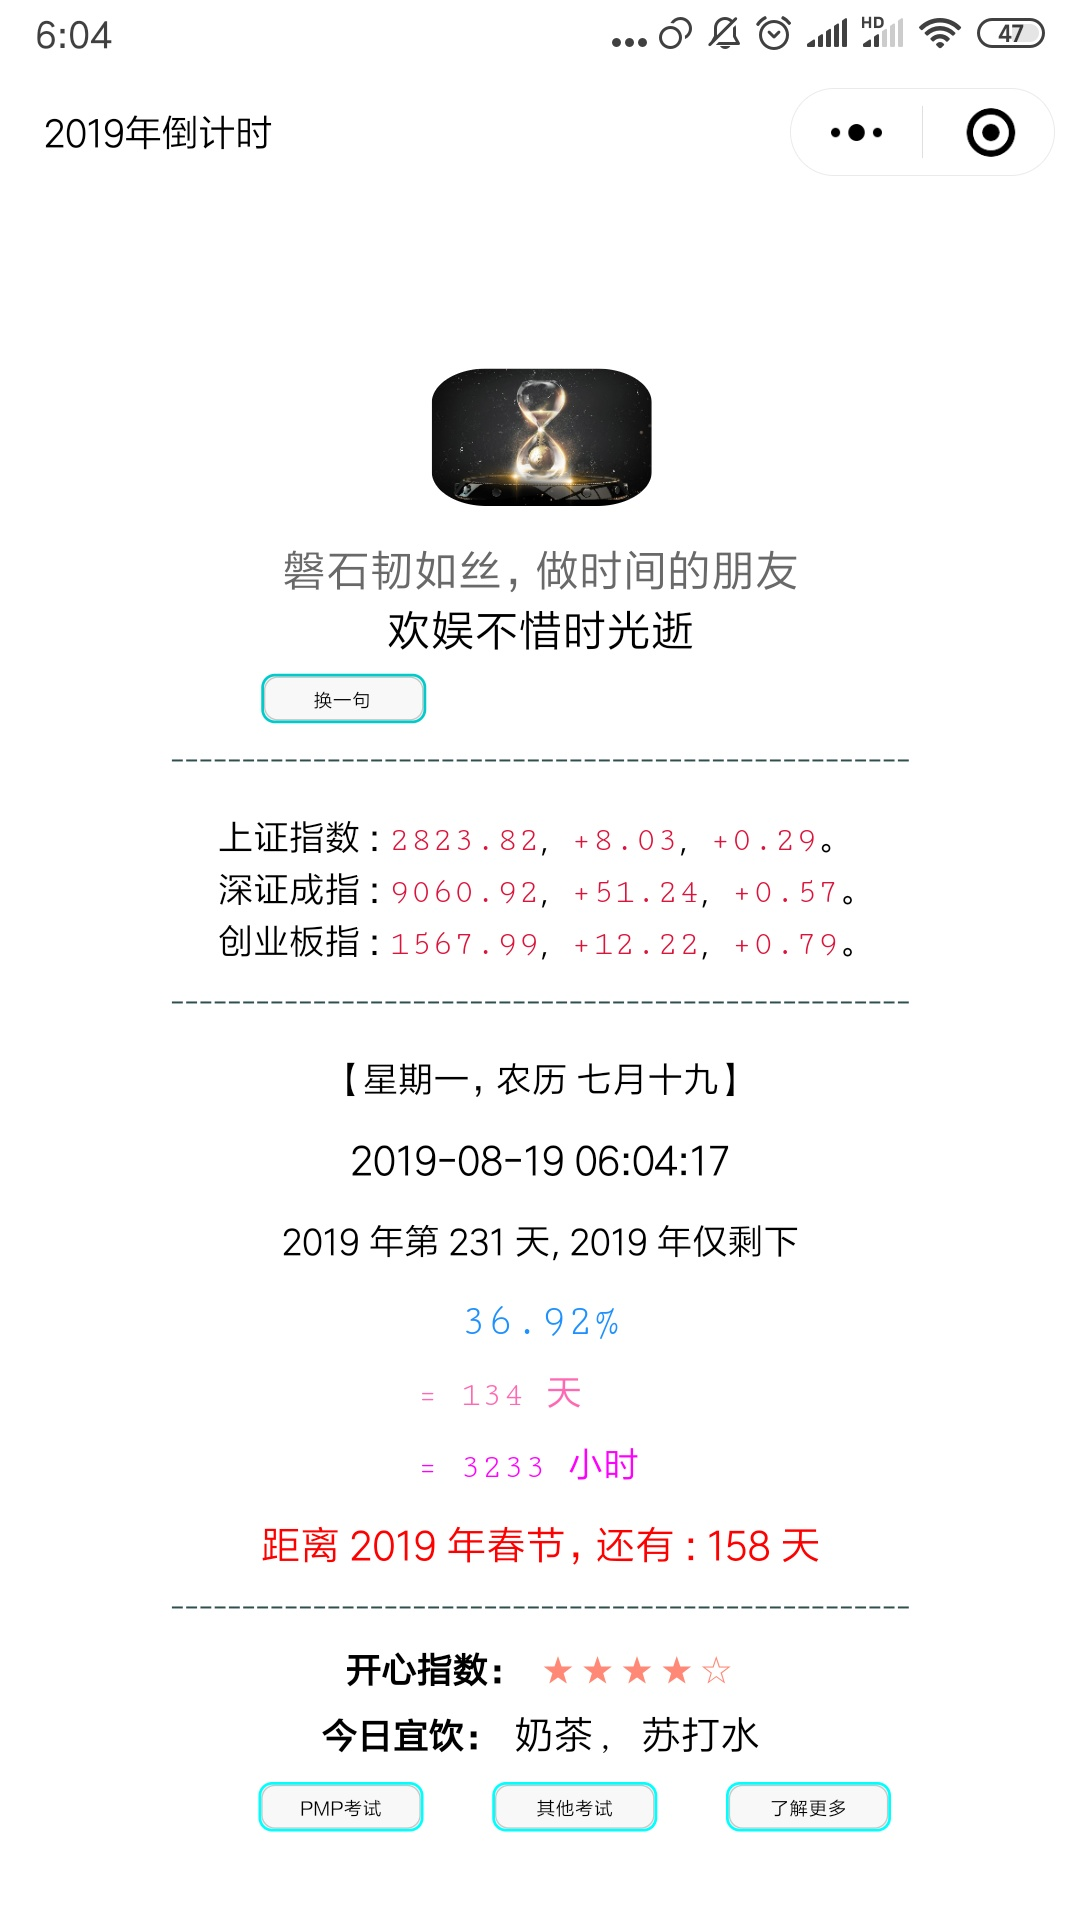
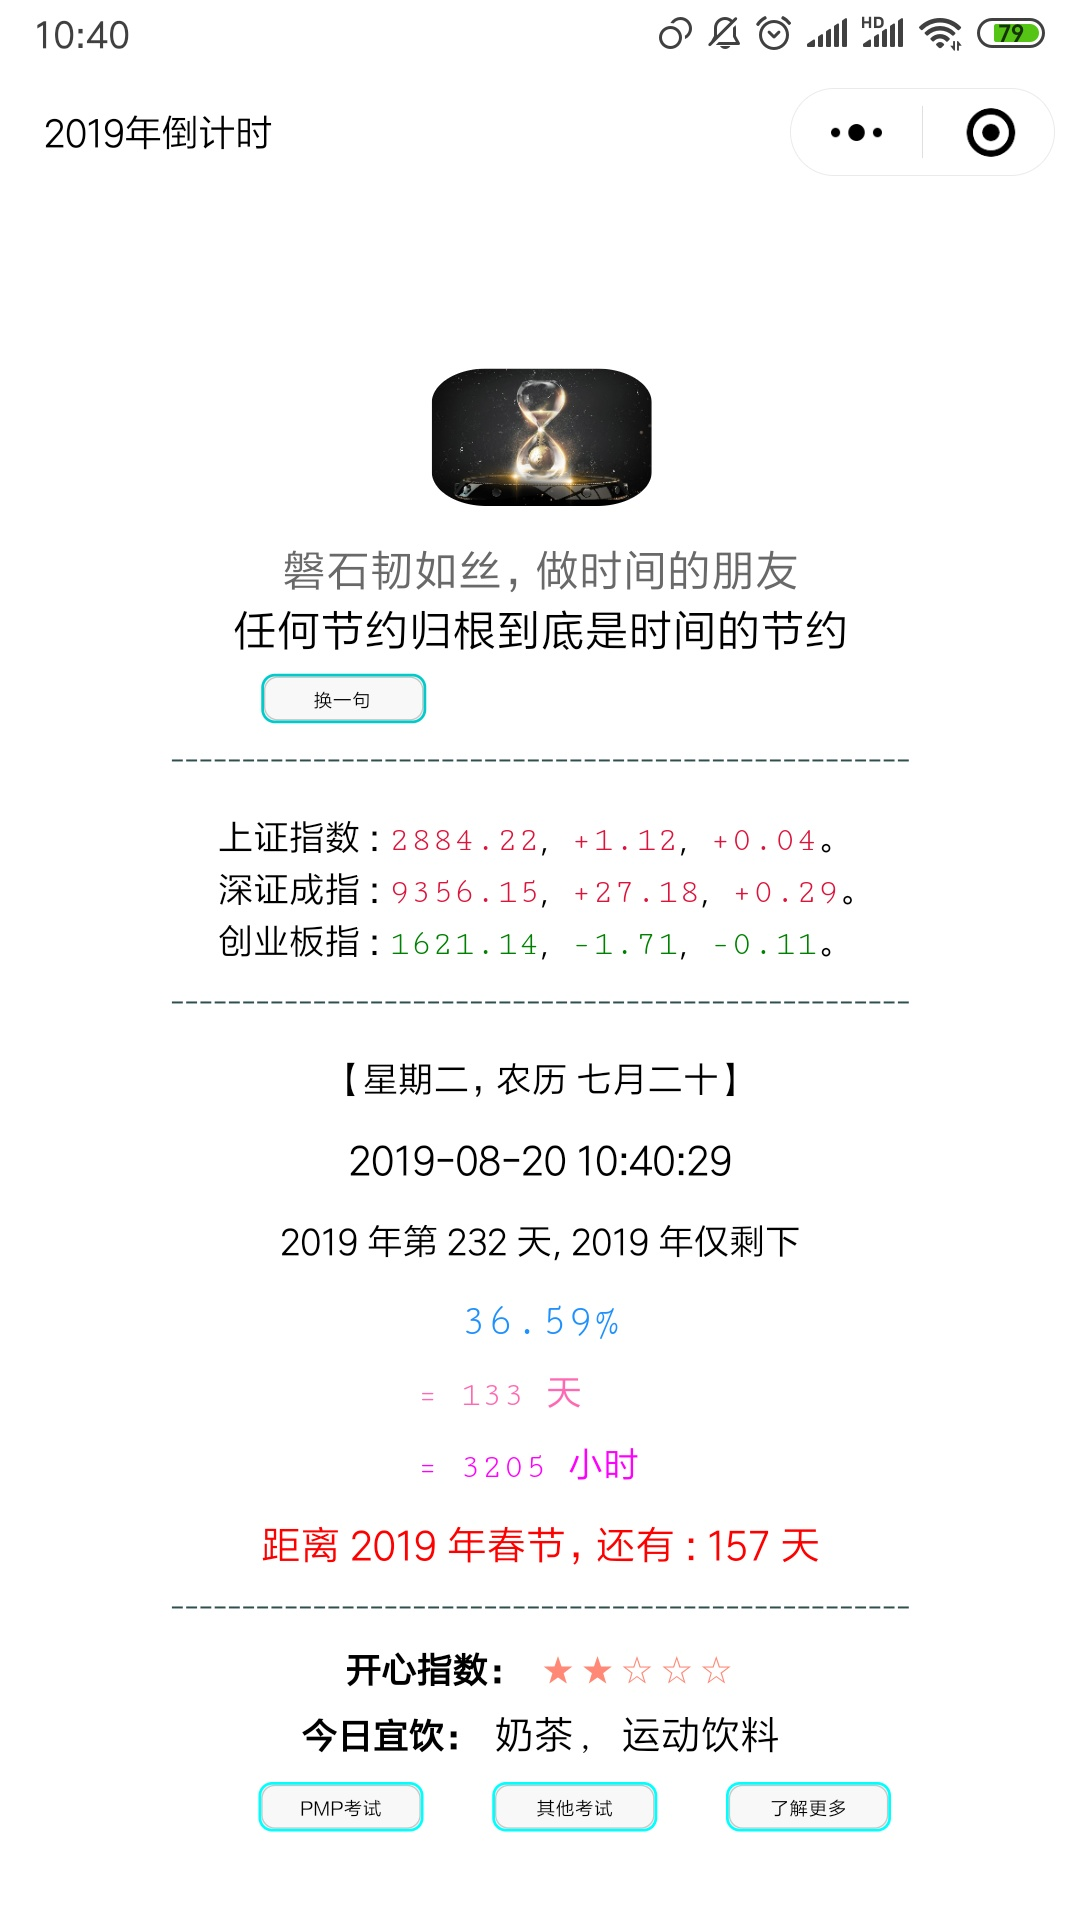
例行更新 20190820

diff --git a/source/_posts/001_2-FD_my_life_records-2019.md b/source/_posts/001_2-FD_my_life_records-2019.md
@@ -1,5 +1,5 @@
 ---
-title: 坚持的力量之数据人生-2019年8月19日
+title: 坚持的力量之数据人生-2019年8月20日
 tags:
   - 数据人生
   - 参考模板
@@ -20,14 +20,14 @@ keywords:
   - 宽978高553
 photos:
   - '/images/001_2/photos.png'
-description: 今天：2019 年 8 月 19 日，2019 年仅剩下 134 天。坚持记录和分析生活中的数据、信息和事件，尊重历史数据、信息和事件，人生将会更美好。
-date: 2019-08-19 00:02:05
+description: 今天：2019 年 8 月 20 日，2019 年仅剩下 133 天。坚持记录和分析生活中的数据、信息和事件，尊重历史数据、信息和事件，人生将会更美好。
+date: 2019-08-20 00:02:05
 ---
 <script type="text/javascript" src="/js/src/bai.js"></script>
 
-### 坚持的力量之数据人生-2019年8月19日
+### 坚持的力量之数据人生-2019年8月20日
 ------
-> 今天：2019 年 8 月 19 日，2019 年仅剩下 134 天。坚持记录和分析生活中的数据、信息和事件，尊重历史数据、信息和事件，人生将会更美好。
+> 今天：2019 年 8 月 20 日，2019 年仅剩下 133 天。坚持记录和分析生活中的数据、信息和事件，尊重历史数据、信息和事件，人生将会更美好。
 >
 > 序言：坚持记录和分析生活中的数据、信息和事件，尊重历史数据、信息和事件，人生将会更美好。
 
@@ -67,11 +67,11 @@ date: 2019-08-19 00:02:05
 
 | 序号 |       名称                                            |  类型  | 开始/结束日期 | 总天数 |          备注                           |
 | :--: | :---------------------------------------------------: | :----: | :-----------: | :----: | :-------------------------------------: |
-|  1   | <font color="#FF0000" size=2>读书荐书第 4/4 更</font> | 倒计时 | 2019/10/01    |  43    | 开始时间：2019/7/1                      |
-|  2   | <font color="#FF0000" size=2>重要节点</font>          | 倒计时 | 2020/03/01    |  198   | 开始时间：2018/6/15 剩余 10 个月        |
-|  3   | <font color="#0000FF" size=2>来上海</font>            | 计时   | 2011/06/25    |  2917  | 第 8 年进行中                           |
-|  4   | <font color="#0000FF" size=2>莫名其妙的计时</font>    | 计时   | 2018/11/12    |  276   | 莫名其妙的计时，希望永远不会停 ！！！   |
-|  5   | <font color="#0000FF" size=2>坚持减肥-3               | 计时   | 2019/08/31    |  20    | 坚持减肥，目标 65 公斤，保持一个月      |
+|  1   | <font color="#FF0000" size=2>读书荐书第 4/4 更</font> | 倒计时 | 2019/10/01    |  42    | 开始时间：2019/7/1                      |
+|  2   | <font color="#FF0000" size=2>重要节点</font>          | 倒计时 | 2020/03/01    |  197   | 开始时间：2018/6/15 剩余 10 个月        |
+|  3   | <font color="#0000FF" size=2>来上海</font>            | 计时   | 2011/06/25    |  2918  | 第 8 年进行中                           |
+|  4   | <font color="#0000FF" size=2>莫名其妙的计时</font>    | 计时   | 2018/11/12    |  277   | 莫名其妙的计时，希望永远不会停 ！！！   |
+|  5   | <font color="#0000FF" size=2>坚持减肥-3               | 计时   | 2019/08/31    |  21    | 坚持减肥，目标 65 公斤，保持一个月      |
 |  6   | <font color="#FF00FF" size=2>博客总计博文</font>      | 计数   | 2018/08/01    |  205   | [博客](/archives) 博文总计数目          |
 |  7   | <font color="#FF00FF" size=2>读书心得札记</font>      | 计数   | 2018/05/26    |  69    | [读书心得笔记并做笔记](/tags/札记人生/) |
 |  8   | <font color="#FF00FF" size=2>五篇好文推荐</font>      | 计数   | 2018/10/24    |  50    | [美文推荐](/tags/美文推荐/)             |
@@ -83,11 +83,11 @@ date: 2019-08-19 00:02:05
 
 | 日期                                   | 记账新增记录 | 记账总记录 | 记账总天数 | 记账时间      | 备注     |
 | :------:                               | :------:     | :------:   | :------:   | :------:      | :------: |
-|<font color="#000000"> 20190815 </font> | 8            | 10639      | 3097       | 8 年零 168 天 | 无       |
 |<font color="#000000"> 20190816 </font> | 4            | 10643      | 3098       | 8 年零 169 天 | 无       |
 |<font color="#000000"> 20190817 </font> | 3            | 10646      | 3099       | 8 年零 170 天 | 无       |
 |<font color="#000000"> 20190818 </font> | 11           | 10657      | 3100       | 8 年零 171 天 | 无       |
-|<font color="#FF0000"> 20190819 </font> | 16           | 10673      | 3101       | 8 年零 172 天 | 无       |
+|<font color="#000000"> 20190819 </font> | 16           | 10673      | 3101       | 8 年零 172 天 | 无       |
+|<font color="#FF0000"> 20190820 </font> | 3            | 10676      | 3102       | 8 年零 173 天 | 无       |
 
 
 #### 3. 历史数据汇总

diff --git a/source/_posts/001_1-FD_2018_year_all_checker-2019.md b/source/_posts/001_1-FD_2018_year_all_checker-2019.md
@@ -1,5 +1,5 @@
 ---
-title: 2019年每日日常综合打卡-2019年8月19日
+title: 2019年每日日常综合打卡-2019年8月20日
 tags:
   - 数据人生
   - 参考模板
@@ -21,14 +21,14 @@ keywords:
   - 宽978高553
 photos:
   - '/images/001_1/photos.png'
-description: 今天：2019 年 8 月 19 日，2019 年仅剩下 134 天。每天坚持打卡，8 月份针对每个任务打卡，慢慢来，一切都会更好的。
-date: 2019-08-19 00:01:01
+description: 今天：2019 年 8 月 20 日，2019 年仅剩下 133 天。每天坚持打卡，8 月份针对每个任务打卡，慢慢来，一切都会更好的。
+date: 2019-08-20 00:01:01
 ---
 <script type="text/javascript" src="/js/src/bai.js"></script>
 
-### 2019年每日日常综合打卡-2019年8月19日
+### 2019年每日日常综合打卡-2019年8月20日
 ---
-> 今天：2019 年 8 月 19 日，2018 年仅剩下 134 天。每日打卡，8 月份针对每个任务打卡，慢慢来，一切都会更好的。
+> 今天：2019 年 8 月 20 日，2018 年仅剩下 133 天。每日打卡，8 月份针对每个任务打卡，慢慢来，一切都会更好的。
 ---
 
 #### 2019 年年历
@@ -70,7 +70,7 @@ date: 2019-08-19 00:01:01
 | 17 |四 ⭕  |日 ⭕  |日 ⭕  |三 ⭕  |五 ⭕  |一 ⭕  |三 ⭕  |六 ⭕  |二     |四     |日     |二     |
 | 18 |五 ⭕  |一 ⭕  |一 ⭕  |四 ⭕  |六 ⭕  |二 ⭕  |四 ⭕  |日 ⭕  |三     |五     |一     |三     |
 | 19 |六 ⭕  |二 ⭕  |二 ⭕  |五 ⭕  |日 ⭕  |三 ⭕  |五 ⭕  |一 ⭕  |四     |六     |二     |四     |
-| 20 |日 ⭕  |三 ⭕  |三 ⭕  |六 ⭕  |一 ⭕  |四 ⭕  |六 ⭕  |二     |五     |日     |三     |五     |
+| 20 |日 ⭕  |三 ⭕  |三 ⭕  |六 ⭕  |一 ⭕  |四 ⭕  |六 ⭕  |二 ⭕  |五     |日     |三     |五     |
 | 21 |一 ⭕  |四 ⭕  |四 ⭕  |日 ⭕  |二 ⭕  |五 ⭕  |日 ⭕  |三     |六     |一     |四     |六     |
 | 22 |二 ⭕  |五 ⭕  |五 ⭕  |一 ⭕  |三 ⭕  |六 ⭕  |一 ⭕  |四     |日     |二     |五     |日     |
 | 23 |三 ⭕  |六 ⭕  |六 ⭕  |二 ⭕  |四 ⭕  |日 ⭕  |二 ⭕  |五     |一     |三     |六     |一     |
@@ -108,7 +108,7 @@ date: 2019-08-19 00:01:01
 | 17 <font color="#FF0000">六</font> | ⭕        | ⭕        | ⭕        | ⭕        | ⭕        | ⭕        |           |
 | 18 <font color="#FF0000">日</font> | ⭕        | ⭕        | ⭕        | ⭕        | ❌         | ⭕        |           |
 | 19 <font color="#000000">一</font> | ⭕        | ⭕        | ⭕        | ⭕        | ❌         | ⭕        |           |
-| 20 <font color="#000000">二</font> |           |           |           |           |           |           |           |
+| 20 <font color="#000000">二</font> | ⭕        | ⭕        | ⭕        | ⭕        | ❌         | ⭕        |           |
 | 21 <font color="#000000">三</font> |           |           |           |           |           |           |           |
 | 22 <font color="#000000">四</font> |           |           |           |           |           |           |           |
 | 23 <font color="#000000">五</font> |           |           |           |           |           |           |           |
